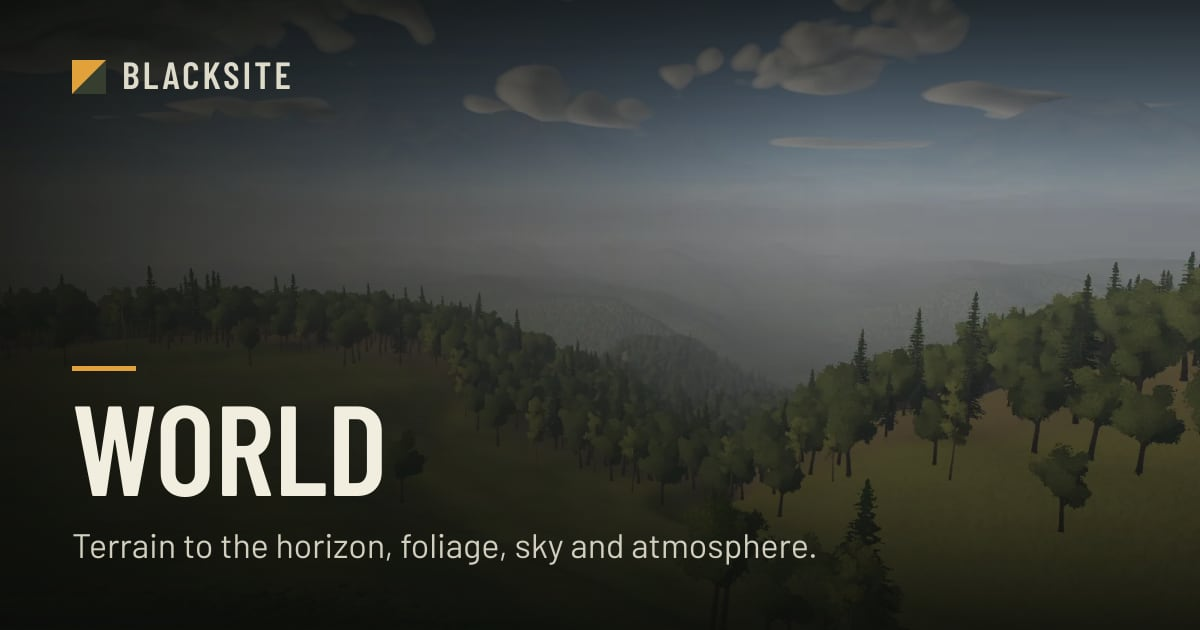
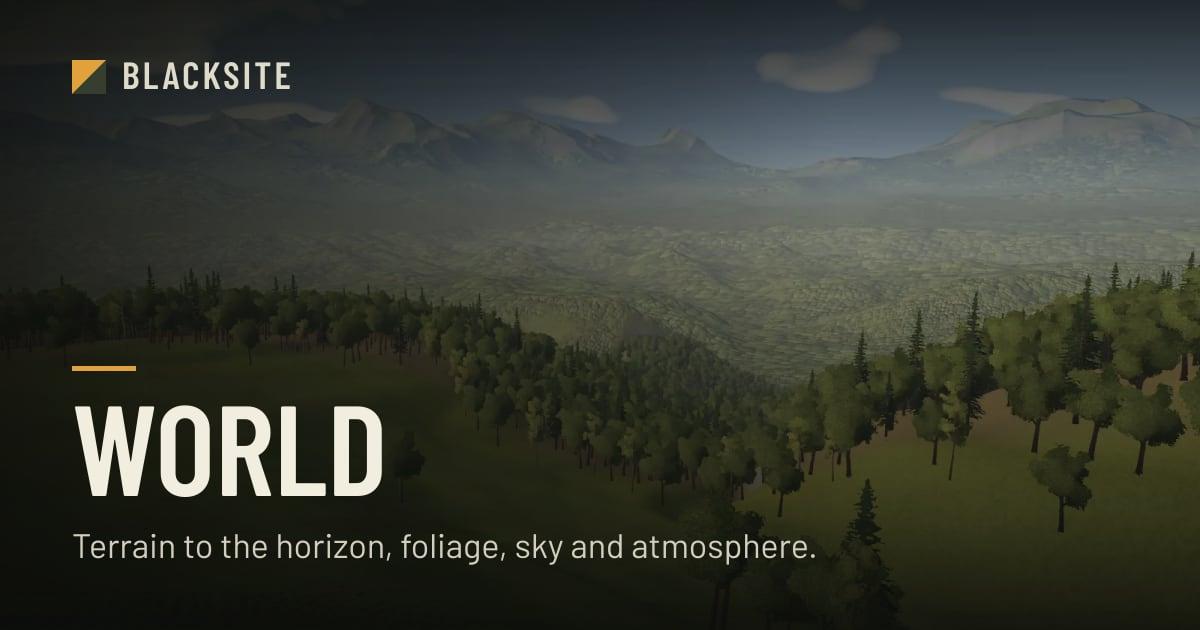
Refresh the Valley thumbnail and World share image; document canopy crown levels, dither and cover shade

diff --git a/packages/landscape/README.md b/packages/landscape/README.md
@@ -21,7 +21,8 @@ const heightAt = (x: number, z: number) => terrainHeightAt(sources, x, z)
 - `createHeightfield({ size, extent, origin?, sample? | heights? })` builds a square grid; `loadHeightmap(url, { spacing, minHeight, maxHeight, verticalScale?, origin? })` decodes a 16-bit greyscale PNG. `heightAt`, `normalAt`, `slopeAt` and `contains` sample a field on the CPU; `terrainHeightAt(sources, x, z)` samples the near/far blend exactly as the shaders do.
 - `surfaceTexture(field, masks?)` packs the terrain normal into `.rg` and two masks from `masks(x, z)` into `.b` and `.a`. Valley uses `.b` for forest and `.a` for path. Terrain splatting, the far canopy and cover masks all read this texture.
 - `createTerrain` draws a CDLOD quadtree of fixed world-space nodes (32 m leaves, a 32 × 32 grid, ranges at 2.4× node size) with one shared instanced grid mesh and a quadrant mesh. Vertices read heights in the vertex shader and morph toward the next coarser grid near each range edge, so there are no cracks, pops or swimming. The fragment shader splats four layers by slope, the two masks and noise, with per-tile offsets against repetition; detail fades to each layer's average colour past `detailDistance` (default 260 m).
-- `layerSpecs` gives each of the four layers `{ tile, tint, roughness, normalScale }`. `canopy` (`{ height, start, end, crown, color, shade }`) lifts the terrain under the forest mask by the crown height between `start` and `end` and shades it as procedural crowns: the far canopy that replaces impostors.
+- `layerSpecs` gives each of the four layers `{ tile, tint, roughness, normalScale }`. `canopy` (`{ height, start, end, crown, color, shade, dither? }`) lifts the terrain under the forest mask by the crown height between `start` and `end` and shades it as procedural crowns with dark gaps: the far canopy that replaces impostors. Crowns group into clumps of two, four and eight crowns as the pixel footprint grows, so the canopy keeps its texture to the horizon without shimmer. Neighbouring levels blend, or with `dither: true` one level is picked per pixel, which halves the cost on phones.
+- `coverShade` (`{ distance, strength }`) darkens the grass layer within `distance` of the viewer, as blades would shade the ground beneath them, so gaps in ground cover don't read as bright patches. Pass the cover distance.
 - `terrain.update(camera)` selects nodes each frame; `terrain.uniforms` is the `TerrainUniforms` other systems (cover) share. `TERRAIN_GLSL` exposes `terrainHeight(xz)`, `terrainSurface(xz)`, `terrainSurfaceLod(xz, lod)` and `terrainNormalOf(surface)` to custom shaders.
 
 ## Ground cover
